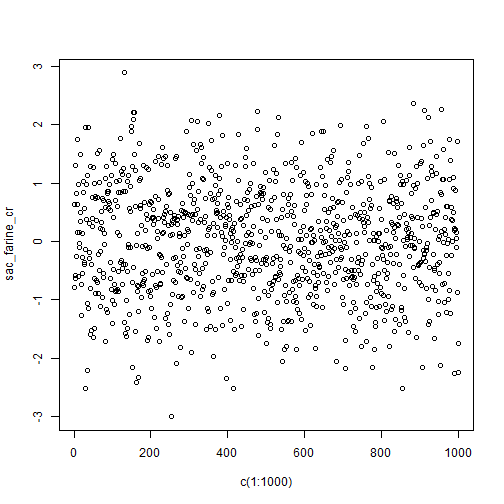
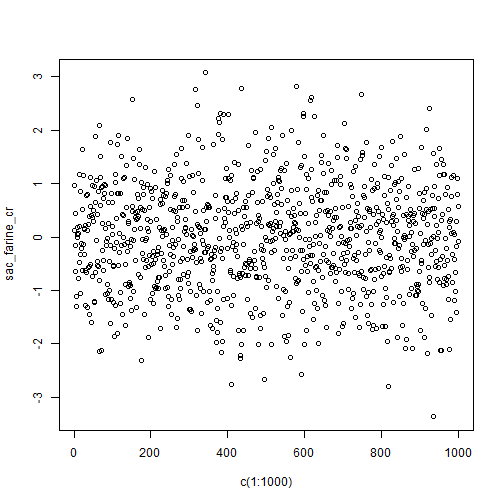
modif ex supp

diff --git a/Exercices_supplémentaires/index.html b/Exercices_supplémentaires/index.html
@@ -98,9 +98,9 @@ class: inverse, middle, center
 
 La solution est belle et bien la valeur de res4, soit 3.5.
 
-On peut voir le numérateur et le dénominateur comme deux termes indépendants:  [(5x+2)*2y] et [z+9].
+On peut voir le numérateur et le dénominateur comme deux termes indépendants:  `\([(5x+2)*2y]\)` et `\([z+9]\)`.
 
-Le terme du numérateur nous indique clairement que l'ensemble du terme (5x+2) doit être multiplié par 2y, d'où ((5x+2)*2y).
+Le terme du numérateur nous indique clairement que l'ensemble du terme (5x+2) doit être multiplié par 2y, d'où `\(((5x+2)*2y)\)`.
 
 
 Donc, `\((5x+2) = (5*1+2) = 7\)`. 
@@ -277,7 +277,7 @@ Rémi est à la recherche du crystal enchanté.
 &lt;img src="assets/img/remi.PNG" height="300px"&gt;&lt;/img&gt;
 &lt;/div&gt;
 
-Sa route le mêne au labyrinthe des Luncredi, illustré à la diapositive suivante.
+Sa route le mène au labyrinthe des Luncredi, illustré à la diapositive suivante.
 
 ---
 
@@ -295,7 +295,7 @@ Déterminez la route que Rémi doit prendre pour aller du début à la fin du la
 
 # Exemple 5 (suite)
 
-À vue d'oeil, le chemin a prendre est unique et est indiqué en blanc.
+À vue d'oeil, le chemin à prendre est unique et est indiqué en blanc.
 
 &lt;div style='text-align:center;'&gt;
 &lt;img src="assets/img/labyrintheRES.PNG" height="300px"&gt;&lt;/img&gt;
@@ -335,7 +335,7 @@ La section courbe est d'une longueur de 110 mètres
 
 # Exemple 5 (suite)
 
-Déterminez le pseudo code a envoyer à Rémi afin de lui permettre de se rendre à la fin du labyrinthe. On peut penser à des étapes dans le style suivant:
+Déterminez le pseudo-code à envoyer à Rémi afin de lui permettre de se rendre à la fin du labyrinthe. On peut penser à des étapes dans le style suivant:
 
 - Avancer de X mètres
 - Tourner à (gauche/droite)
@@ -1017,7 +1017,7 @@ Le mouvement en L est défini comme suit:
 &lt;img src="assets/img/mouvement.PNG" height="200px"&gt;&lt;/img&gt;
 &lt;/div&gt;
 
-Bien sûr, ce mouvement est valide dans tout les sens:
+Bien sûr, ce mouvement est valide dans tous les sens:
 
 &lt;div style='text-align:center;'&gt;
 &lt;img src="assets/img/mouvementL.PNG" height="150px"&gt;&lt;/img&gt;
@@ -1027,7 +1027,7 @@ Bien sûr, ce mouvement est valide dans tout les sens:
 
 # Exemple 6 (suite)
 
-La section 4 n'est pas un mouvement horizontale ou verticale. Cependant, on peut exprimer le chemin à prendre comme l'hypothénuse du triangle rectangle suivant. 
+La section 4 n'est pas un mouvement horizontal ou vertical. Cependant, on peut exprimer le chemin à prendre comme l'hypoténuse du triangle rectangle suivant. 
 
 &lt;div style='text-align:center;'&gt;
 &lt;img src="assets/img/nouvregion4.PNG" height="200px"&gt;&lt;/img&gt;
@@ -1261,7 +1261,7 @@ class: inverse, middle, center
 
 # Exemple 1
 
-Une compagnie travaille dans la farine. Leur branche principale est la conception de différente grandeur de sac de farine. Par contre, dernièrement, plusieurs plaintes ont été reçues au département des sacs de 250g. Certaines par des clients, spécifiant que leur sac de farine était beaucoup plus léger que 250g, et certaines par les directeurs, qui dans un sens contraire, affirmait que certains sacs étaient beaucoup trop remplis et dépassait 250g. 
+Une compagnie travaille dans la farine. Leur branche principale est la conception de différente grandeur de sac de farine. Par contre, dernièrement, plusieurs plaintes ont été reçues au département des sacs de 250g. Certaines par des clients, spécifiant que leur sac de farine était beaucoup plus léger que 250g, et certaines par les directeurs, qui dans un sens contraire, affirmait que certains sacs étaient beaucoup trop lourds et dépassait 250g. 
 
 En regardant les réglages de la machine, on remarque que cette dernière crée des sacs de 250g en moyenne, dont l’écart-type est de 5g. La quantité de farine introduite dans les sacs suit une loi normale. 
 
@@ -1336,7 +1336,7 @@ nb_sac_extreme             # (qui dépasse 3 ou -3) nous avions dans l'échantil
 ```
 
 ```
-## [1] 1
+## [1] 2
 ```
 
 ```r
@@ -1383,11 +1383,11 @@ calcul_sac(rnorm(n = 1000, mean = 250, sd = 5))
 ```
 
 ```
-## [1] "Il n'y a aucun problème avec la machine"
+## [1] "La machine est clairement défectueuse"
 ```
 
 ```
-## [1] 1
+## [1] 3
 ```
 
 ```r
@@ -1407,11 +1407,11 @@ calcul_sac(rnorm(n = 1000, mean = 250, sd = 5))
 ```
 
 ```
-## [1] "Il n'y a aucun problème avec la machine"
+## [1] "La machine est clairement défectueuse"
 ```
 
 ```
-## [1] 1
+## [1] 5
 ```
 
 ---
@@ -1605,7 +1605,7 @@ resultat[1:10] # idée des 10 première tentatives
 ```
 
 ```
-##  [1] 14  7  4 11  4  7 14 12  5 10
+##  [1] 13 15 18 11 13  9 15  7 17 11
 ```
 
 ```r
@@ -1613,7 +1613,7 @@ mean(resultat) # Moyenne du nombre de lancer total
 ```
 
 ```
-## [1] 11.725
+## [1] 11.4389
 ```
 
 
